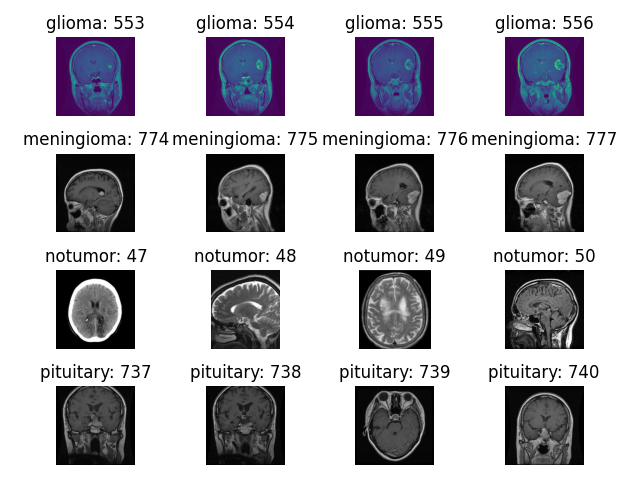
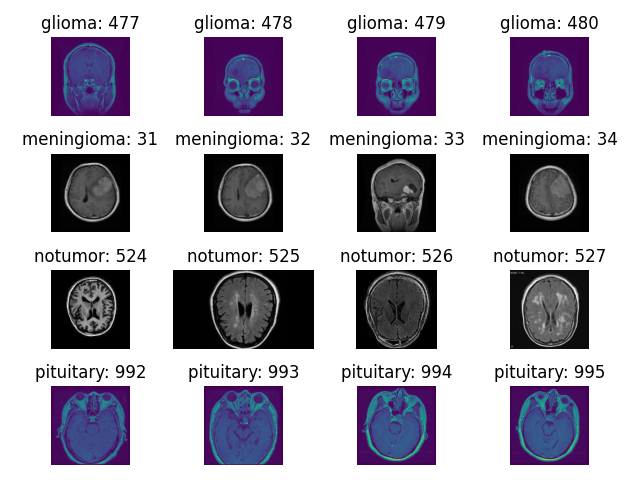
added more images

diff --git a/trdata.py b/trdata.py
@@ -78,7 +78,8 @@ for i in range(0,2):
 # Convert training images into tensors 
 # ref: https://www.geeksforgeeks.org/converting-an-image-to-a-torch-tensor-in-python/
 transform = transforms.Compose([
-    transforms.PILToTensor()
+    transforms.PILToTensor(),
+    transforms.Resize((512,512))
 ])
 
 traintensor_glioma = []
@@ -168,42 +169,43 @@ plt.tight_layout()
 plt.savefig("pituitary.png")
 plt.close()
 
+for imgnum in range(0, 4):
+    fig, axs = plt.subplots(4,4)
+    for i in range(0, 4):
+        k=random.randint(0,1000)
+        for j in range(0,4):
+            if(i == 0):
+                img = Image.open(training_glioma[k])
+                axs[i,j].imshow(img)
+                axs[i,j].axis('off')
+                strk = "glioma: " + str(k)
+                axs[i,j].set_title(strk)
+            
+            elif i == 1:
+                img = Image.open(training_meningioma[k])
+                axs[i,j].imshow(img)
+                axs[i,j].axis('off')
+                strk = "meningioma: " + str(k)
+                axs[i,j].set_title(strk)
+        
+            elif i == 2:
+                img = Image.open(training_notumor[k])
+                axs[i,j].imshow(img)
+                axs[i,j].axis('off')
+                strk = "notumor: " + str(k)
+                axs[i,j].set_title(strk)
 
-fig, axs = plt.subplots(4,4)
-for i in range(0, 4):
-    k=random.randint(0,1000)
-    for j in range(0,4):
-        if(i == 0):
-            img = Image.open(training_glioma[k])
-            axs[i,j].imshow(img)
-            axs[i,j].axis('off')
-            strk = "glioma: " + str(k)
-            axs[i,j].set_title(strk)
-         
-        elif i == 1:
-            img = Image.open(training_meningioma[k])
-            axs[i,j].imshow(img)
-            axs[i,j].axis('off')
-            strk = "meningioma: " + str(k)
-            axs[i,j].set_title(strk)
-    
-        elif i == 2:
-            img = Image.open(training_notumor[k])
-            axs[i,j].imshow(img)
-            axs[i,j].axis('off')
-            strk = "notumor: " + str(k)
-            axs[i,j].set_title(strk)
 
+            elif i == 3:
+                img = Image.open(training_pituitary[k])
+                axs[i,j].imshow(img)
+                axs[i,j].axis('off')
+                strk = "pituitary: " + str(k)
+                axs[i,j].set_title(strk)
 
-        elif i == 3:
-            img = Image.open(training_pituitary[k])
-            axs[i,j].imshow(img)
-            axs[i,j].axis('off')
-            strk = "pituitary: " + str(k)
-            axs[i,j].set_title(strk)
+            k = k + 1
 
-        k = k + 1
-
-plt.tight_layout()
-plt.savefig("all.png")
-plt.close()
+    plt.tight_layout()
+    strsave = "all" + str(imgnum) + ".png"
+    plt.savefig(strsave)
+    plt.close()
